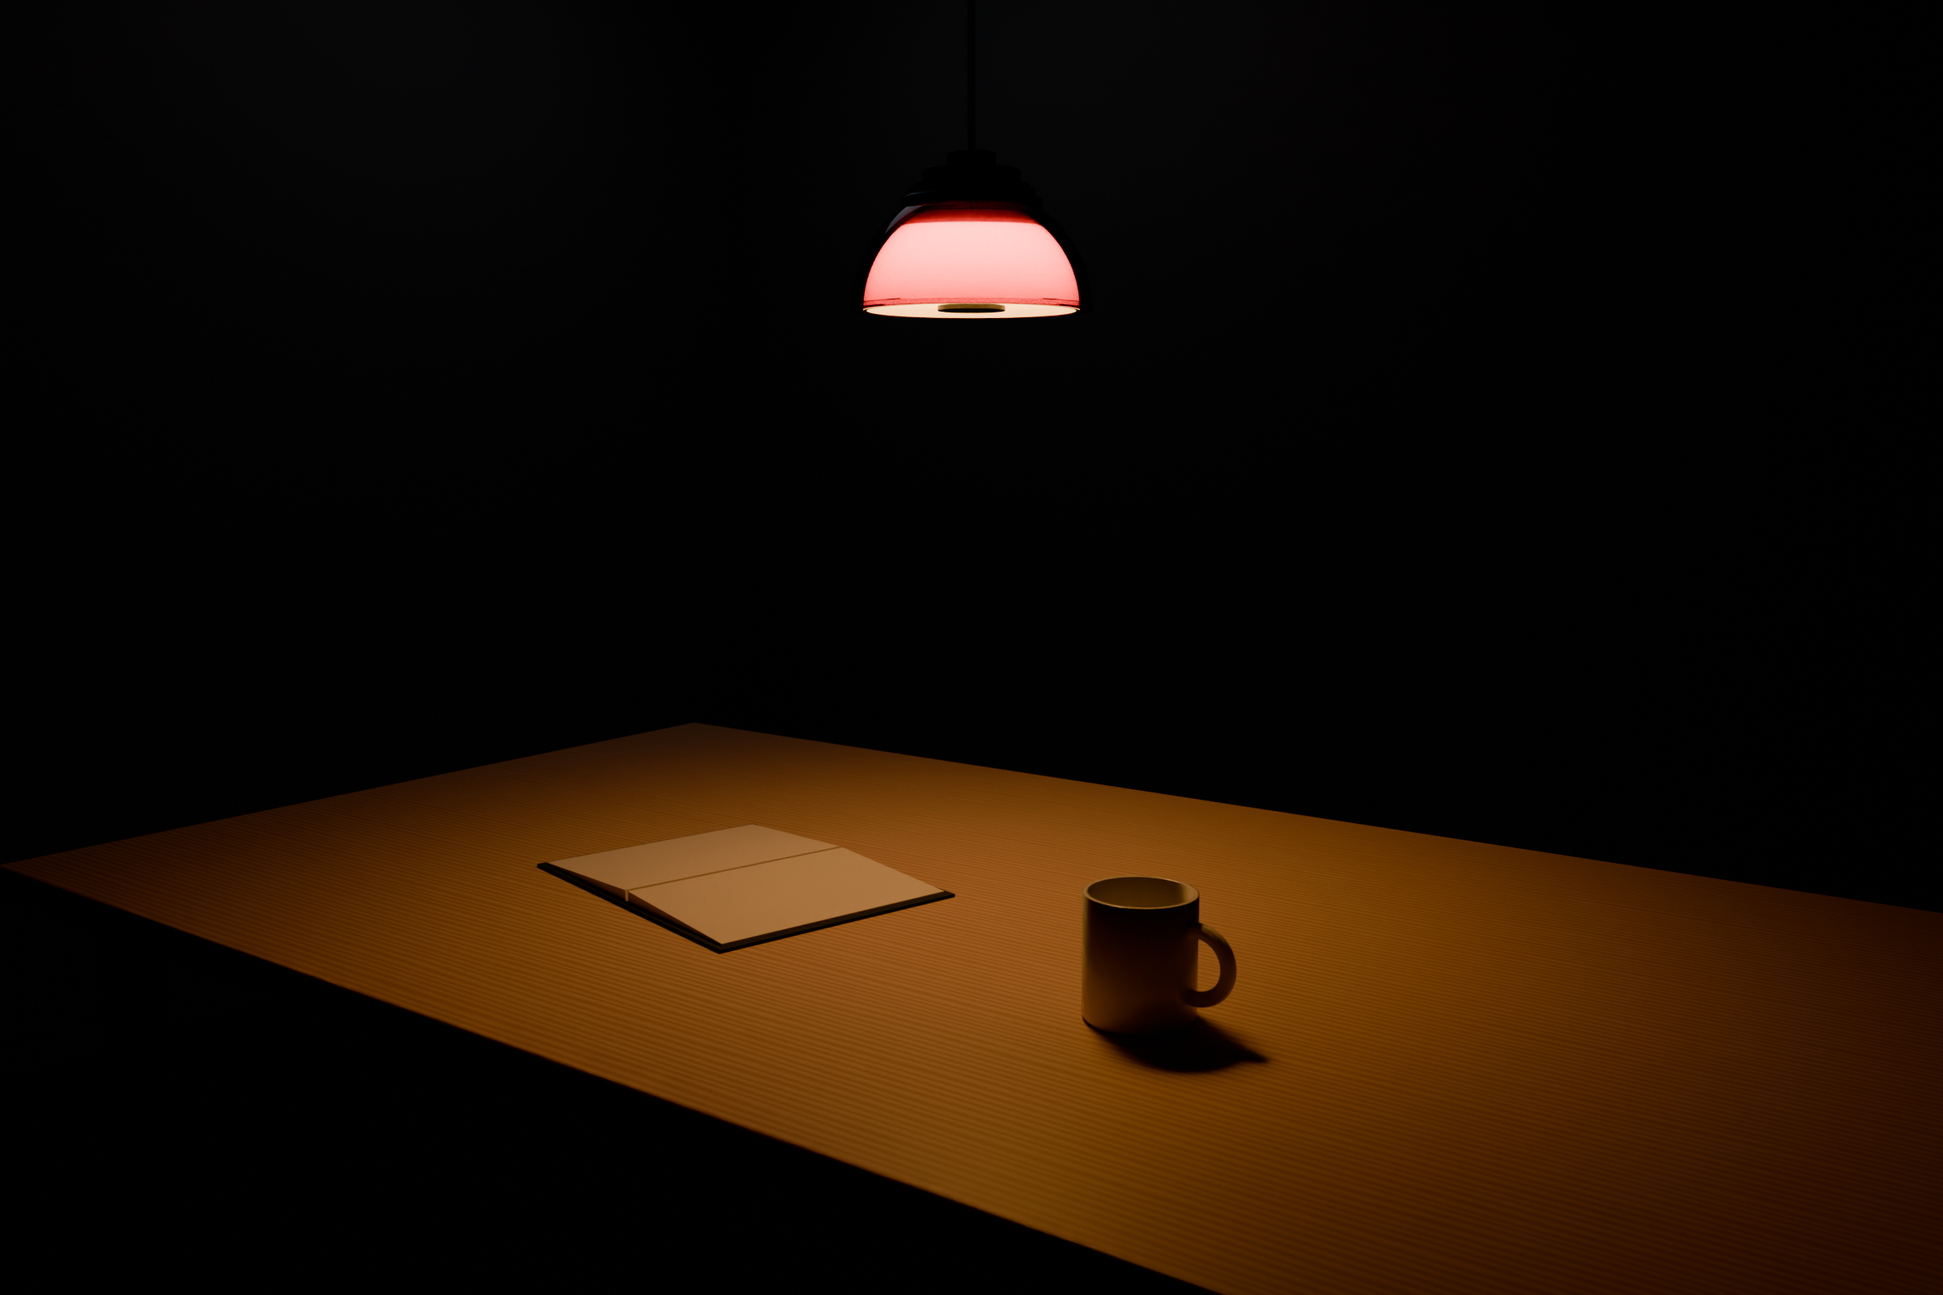
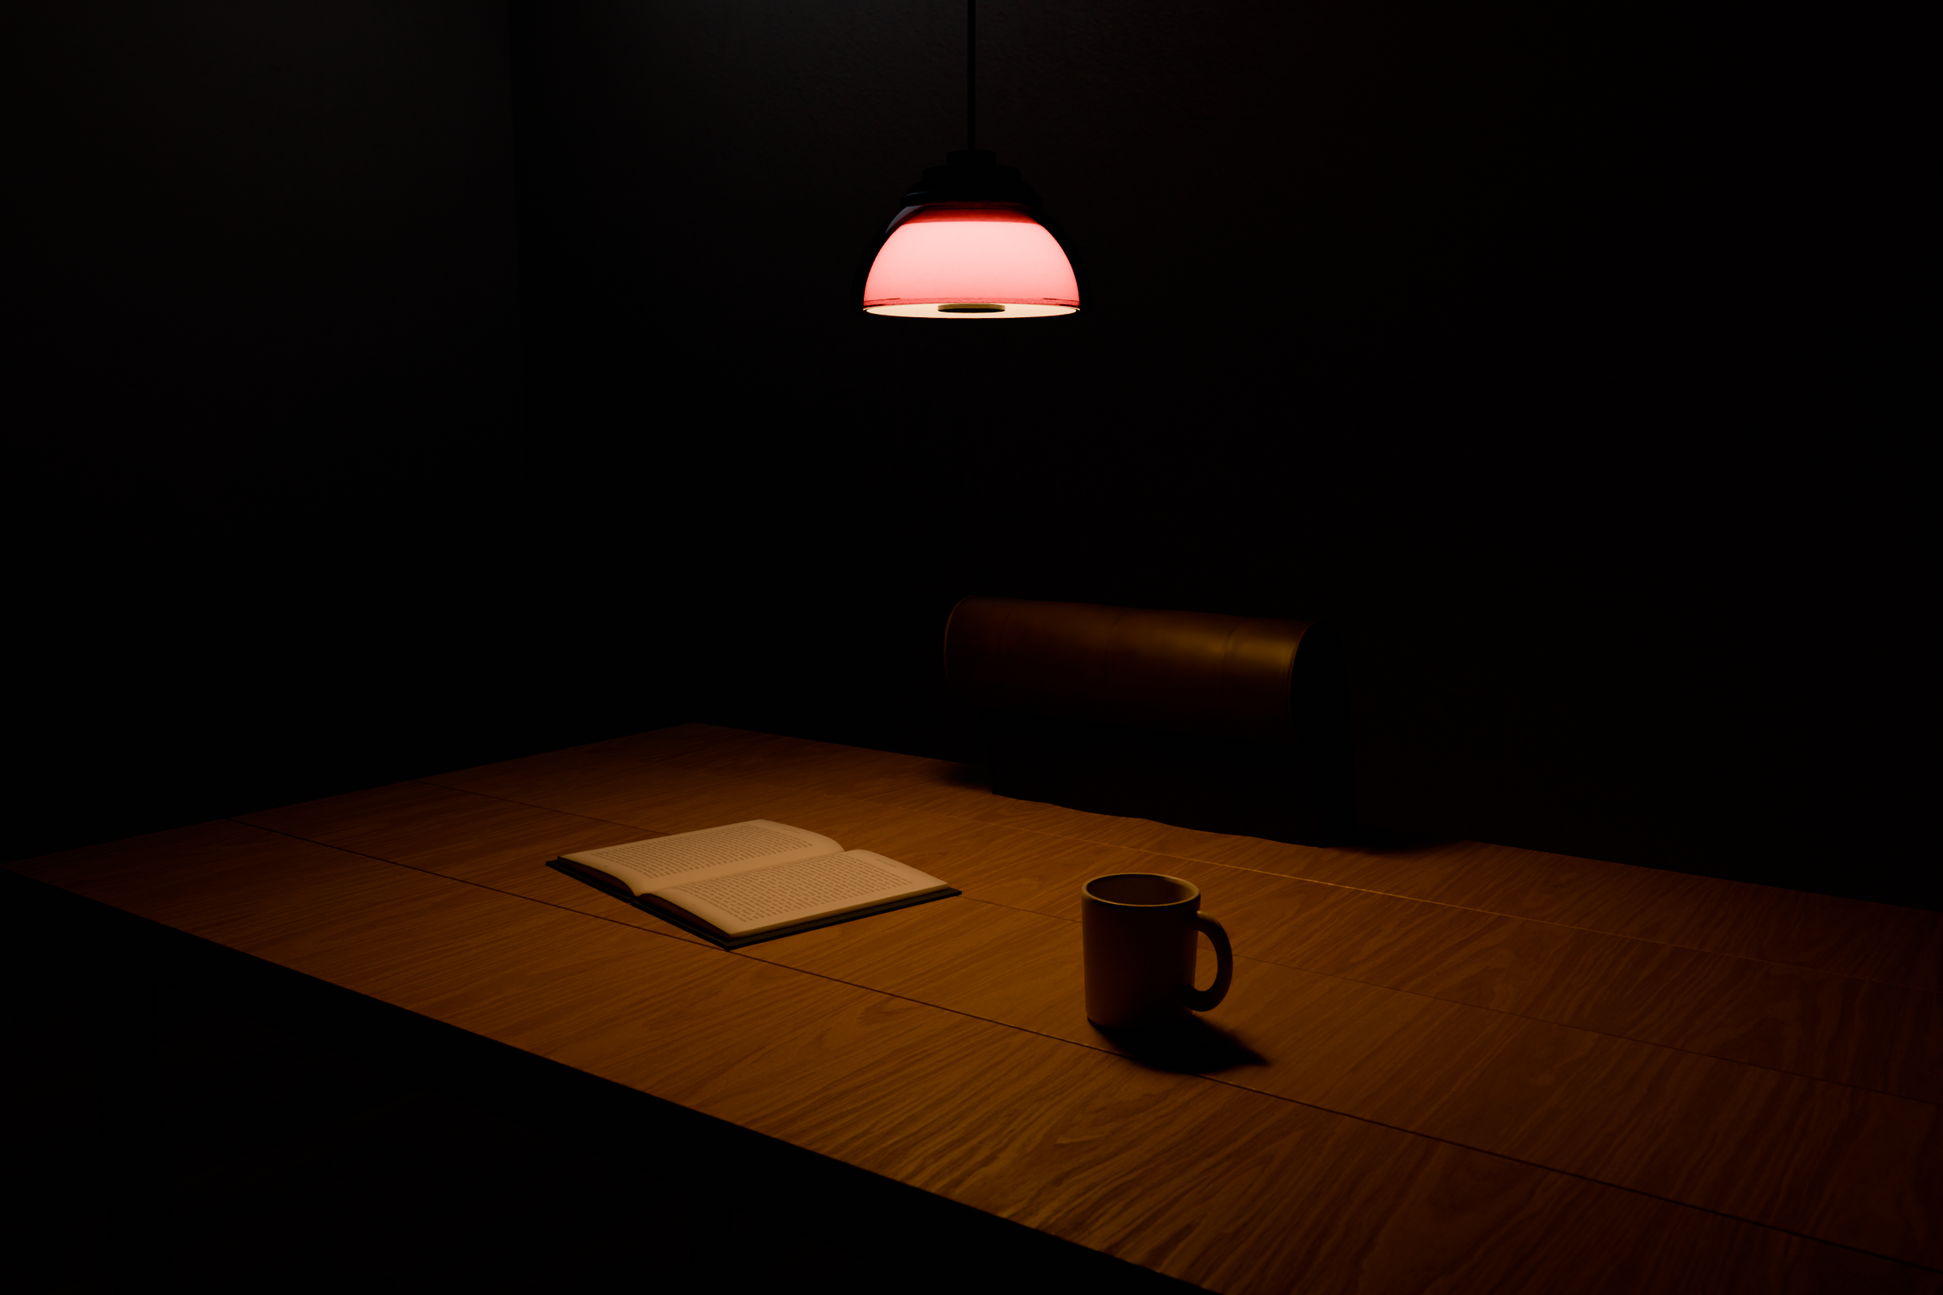
Hemisphere in use, pass 2: scanned oak boards, a printed book, a stoneware cup, a chair
The coordinator, 2026-11-13: the first in-use picture proved the point, but the table read as card,
the book was blank, the mug was plain and the room was a void. The lamp, its 0.5 m height, the
camera, the exposure and the declared 6 W fill are all unchanged; nothing is brightened.

- The table's top is four boards of a scanned oak (Poly Haven oak_veneer_01, CC0) at its real size,
  grain along the boards, each board its own cut of the scan, with 1.5 mm joints.
- The open book is modelled with pages rising from the gutter, printed from page-L/page-R.jpg. That
  text was written for this repo and typeset by lamp-site-meshes/book/pages.py.
- The cup is speckled oatmeal stoneware with coffee in it.
- A chair (Poly Haven dining_chair_02, CC0) is pushed in across the table, its back in the lamp's
  own spill.
- The walls are scanned plaster and the floor is scanned oak planks.
- The far wall stays black at this exposure. That is reported, and the fill was not raised.

The table re-read with a grey card gives 333 / 226 / 71 lux at 0, 0.3 and 0.6 m (pass 1: 343 / 231 /
71); numbers.txt has both. The audit reads 0.0 for hidden lamps in frame.

Claude-Session: https://claude.ai/code/session_01VCPNDaozJgar2mVTSvis3A

Changed region(s): [[0.0625, 0.5625, 1.0, 1.0], [0.5, 0.4375, 0.6875, 0.5312], [0.9375, 0.9688, 1.0, 1.0]]

diff --git a/spinoffs/barkhorn/companions/lamp_site.py b/spinoffs/barkhorn/companions/lamp_site.py
@@ -539,53 +539,113 @@ def build(frame, samples, scale):
             ob.location = (c[0], cy, c[2])
 
     def room(tz):
-        """A dim room for the in-use picture (2026-11-12): a 4.4 x 4.6 m box 2.4 m high (floor, ceiling, four walls, all
-        matte), a pale oak table (1.6 x 0.9, its top at tz), a white cup and an open book. Procedural materials only."""
-        wall = SC.principled('wall', '#8A867F', 0.9); floor_ = SC.principled('floor', '#4A3D33', 0.6)
+        """A dim room for the in-use picture (2026-11-12; pass 2 2026-11-13, the coordinator: real oak, a printed book, a
+        stoneware cup, the room placed). A 4.4 m wide room, 2.4 m high, its far wall 0.85 m behind the table; the table
+        (1.6 x 0.9, its top at tz) four boards of a scanned oak (Poly Haven oak_veneer_01, CC0, at its real size, the
+        grain along the boards) with 1.5 mm joints; a chair (Poly Haven dining_chair_02, CC0) across it; the walls a
+        scanned plaster (beige_wall_001) toned warm grey, the floor scanned oak planks. The book is modelled here, its pages
+        printed from lamp-site-meshes/book (text written for this repo); the cup a speckled stoneware, revolved."""
+        sys.path.insert(0, os.path.join(HERE, '..', '..', '..', 'studio', 'engine'))
+        import assets as AS
+        yw = 1.30
+        wallm = AS.pbr(bpy, 'beige_wall_001', '1k', tint='#D3CDC2', tint_mix=0.45, name='wall')
+        floorm = AS.pbr(bpy, 'oak_wood_planks', '1k', name='floor')
         ceil = SC.principled('ceiling', '#B9B6B0', 0.95)
-        SC.box_ob('floor', -2.2, -2.6, -0.02, 2.2, 2.0, 0.0, floor_)
-        SC.box_ob('ceiling', -2.2, -2.6, 2.4, 2.2, 2.0, 2.42, ceil)
-        SC.box_ob('wall-back', -2.2, 2.0, 0.0, 2.2, 2.02, 2.4, wall)
-        SC.box_ob('wall-front', -2.2, -2.62, 0.0, 2.2, -2.6, 2.4, wall)
-        SC.box_ob('wall-left', -2.22, -2.6, 0.0, -2.2, 2.0, 2.4, wall)
-        SC.box_ob('wall-right', 2.2, -2.6, 0.0, 2.22, 2.0, 2.4, wall)
-        # pale oak: a wave texture's grain along x, distorted, between two oak tones; oiled (roughness 0.45)
-        oak = bpy.data.materials.new('oak'); oak.use_nodes = True; nt = oak.node_tree
-        bs = nt.nodes['Principled BSDF']; bs.inputs['Roughness'].default_value = 0.45
-        tc = nt.nodes.new('ShaderNodeTexCoord'); mp = nt.nodes.new('ShaderNodeMapping'); mp.inputs['Scale'].default_value = (1.0, 14.0, 1.0)
-        wv = nt.nodes.new('ShaderNodeTexWave'); wv.wave_type = 'BANDS'; wv.bands_direction = 'Y'
-        wv.inputs['Scale'].default_value = 3.0; wv.inputs['Distortion'].default_value = 6.0; wv.inputs['Detail'].default_value = 4.0
-        cr = nt.nodes.new('ShaderNodeValToRGB'); cr.color_ramp.elements[0].color = (*SC.hex_lin('#C8A57A'), 1); cr.color_ramp.elements[1].color = (*SC.hex_lin('#DCC29C'), 1)
-        nt.links.new(tc.outputs['Object'], mp.inputs['Vector']); nt.links.new(mp.outputs['Vector'], wv.inputs['Vector'])
-        nt.links.new(wv.outputs['Fac'], cr.inputs['Fac']); nt.links.new(cr.outputs['Color'], bs.inputs['Base Color'])
-        SC.box_ob('table-top', -0.8, -0.45, tz - 0.03, 0.8, 0.45, tz, oak, bevel=0.003)
+        SC.box_ob('floor', -2.2, -2.6, -0.02, 2.2, yw, 0.0, floorm)
+        SC.box_ob('ceiling', -2.2, -2.6, 2.4, 2.2, yw, 2.42, ceil)
+        SC.box_ob('wall-back', -2.2, yw, 0.0, 2.2, yw + 0.02, 2.4, wallm)
+        SC.box_ob('wall-front', -2.2, -2.62, 0.0, 2.2, -2.6, 2.4, wallm)
+        SC.box_ob('wall-left', -2.22, -2.6, 0.0, -2.2, yw, 2.4, wallm)
+        SC.box_ob('wall-right', 2.2, -2.6, 0.0, 2.22, yw, 2.4, wallm)
+        # the top: four boards 223.9 wide with 1.5 joints, each its own cut of the scan (the grain turned along x, each
+        # board's mapping shifted so no two repeat), the long edges eased 1.5; oiled (the scan's own roughness)
+        oak0 = AS.pbr(bpy, 'oak_veneer_01', '2k', name='oak')
+        bw = (0.9 - 3 * 0.0015) / 4
+        for k in range(4):
+            m = oak0.copy(); m.name = f'oak-{k}'
+            mp = next(n for n in m.node_tree.nodes if n.type == 'MAPPING')
+            mp.inputs['Rotation'].default_value = (0.0, 0.0, math.pi / 2)
+            mp.inputs['Location'].default_value = (0.37 * k + 0.11, 0.53 * k, 0.0)
+            y0 = -0.45 + k * (bw + 0.0015)
+            SC.box_ob(f'table-top-{k}', -0.8, y0, tz - 0.03, 0.8, y0 + bw, tz, m, bevel=0.0015)
+        apron = oak0.copy(); apron.name = 'oak-apron'
+        SC.box_ob('table-apron', -0.72, -0.37, tz - 0.11, 0.72, 0.37, tz - 0.03, apron)
         for lx in (-0.74, 0.70):
-            for ly in (-0.39, 0.35):
-                SC.box_ob(f'table-leg', lx, ly, 0.0, lx + 0.04, ly + 0.04, tz - 0.03, oak)
-        # the cup: a white glazed mug, revolved, 80 across, 90 high, and a handle
-        glaze = SC.principled('glaze', '#F1EFEA', 0.12)
-        prof = [(0.0, 0.0), (0.038, 0.0), (0.040, 0.004), (0.040, 0.090), (0.0365, 0.090), (0.0365, 0.008), (0.0, 0.008)]
+            for ly in (-0.40, 0.36):
+                SC.box_ob('table-leg', lx, ly, 0.0, lx + 0.04, ly + 0.04, tz - 0.03, apron)
+        # the chair across the table, pushed in under it as a chair is left, its back in the lamp's own spill
+        try:
+            ch = AS.place(bpy, 'dining_chair_02', '1k', location=(-0.02, 0.58, 0.0), rotation_deg=(0, 0, 180), scale=1.0)
+            ch.name = 'chair'
+        except Exception as e:
+            print('CHAIR not placed:', e)
+        # the cup: stoneware, 82 across, 92 high, 4.5 walls, a foot; an oatmeal glaze speckled with iron; coffee in it
+        gl = bpy.data.materials.new('stoneware'); gl.use_nodes = True; nt = gl.node_tree; bs = nt.nodes['Principled BSDF']
+        bs.inputs['Roughness'].default_value = 0.32
+        tc = nt.nodes.new('ShaderNodeTexCoord'); nz = nt.nodes.new('ShaderNodeTexNoise'); nz.inputs['Scale'].default_value = 900.0
+        nz.inputs['Detail'].default_value = 2.0
+        cr = nt.nodes.new('ShaderNodeValToRGB'); cr.color_ramp.interpolation = 'CONSTANT'
+        cr.color_ramp.elements[0].color = (*SC.hex_lin('#5B4A3B'), 1); cr.color_ramp.elements[1].position = 0.30
+        cr.color_ramp.elements[1].color = (*SC.hex_lin('#D2C8B5'), 1)
+        n2 = nt.nodes.new('ShaderNodeTexNoise'); n2.inputs['Scale'].default_value = 40.0
+        mx = nt.nodes.new('ShaderNodeMix'); mx.data_type = 'RGBA'; mx.blend_type = 'MULTIPLY'; mx.inputs['Factor'].default_value = 0.12
+        nt.links.new(tc.outputs['Object'], nz.inputs['Vector']); nt.links.new(nz.outputs['Fac'], cr.inputs['Fac'])
+        nt.links.new(tc.outputs['Object'], n2.inputs['Vector']); nt.links.new(cr.outputs['Color'], mx.inputs['A'])
+        nt.links.new(n2.outputs['Color'], mx.inputs['B']); nt.links.new(mx.outputs['Result'], bs.inputs['Base Color'])
+        prof = [(0.0, 0.003), (0.030, 0.003), (0.032, 0.0), (0.035, 0.0), (0.037, 0.006), (0.041, 0.088), (0.0405, 0.092),
+                (0.0375, 0.092), (0.0365, 0.088), (0.0335, 0.012), (0.0, 0.010)]
         bm = bmesh.new(); vs = [bm.verts.new((r, 0.0, z)) for r, z in prof]
         for i in range(len(vs) - 1):
             bm.edges.new((vs[i], vs[i + 1]))
-        bmesh.ops.spin(bm, geom=bm.verts[:] + bm.edges[:], cent=(0, 0, 0), axis=(0, 0, 1), angle=2 * math.pi, steps=64, use_merge=True)
+        bmesh.ops.spin(bm, geom=bm.verts[:] + bm.edges[:], cent=(0, 0, 0), axis=(0, 0, 1), angle=2 * math.pi, steps=96, use_merge=True)
         bmesh.ops.remove_doubles(bm, verts=bm.verts, dist=1e-6); bmesh.ops.recalc_face_normals(bm, faces=bm.faces[:])
         for f in bm.faces:
             f.smooth = True
-        me = bpy.data.meshes.new('cup'); bm.to_mesh(me); bm.free(); me.materials.append(glaze)
-        cup = bpy.data.objects.new('cup', me); bpy.context.scene.collection.objects.link(cup); cup.location = (0.26, -0.16, tz)
-        bpy.ops.mesh.primitive_torus_add(major_radius=0.024, minor_radius=0.0055, location=(0.26 + 0.044, -0.16, tz + 0.047), rotation=(math.pi / 2, 0, 0))
-        hd = bpy.context.object; hd.name = 'cup-handle'; hd.data.materials.append(glaze); hd.select_set(False)
-        # the book: open, a 230 x 155 page spread on its cloth cover, the two blocks of pages rising slightly from the spine
-        cloth = SC.principled('cloth', '#2F3B4A', 0.85); pages = SC.principled('pages', '#EEE9DE', 0.8)
-        bk = (-0.20, -0.08); rot = math.radians(-14)
-        objs = [SC.box_ob('book-cover', -0.162, -0.118, 0.0, 0.162, 0.118, 0.003, cloth)]
-        for sgn in (-1, 1):   # each block's centre 78 out from the spine, tipped 3 deg so it rises toward the spine
-            ob = SC.box_ob('book-pages', 0.002 * sgn if sgn > 0 else -0.154, -0.112, 0.003, 0.154 if sgn > 0 else -0.002, 0.112, 0.013, pages)
-            ob.rotation_euler = (0.0, math.radians(3.0) * sgn, 0.0); objs.append(ob)
+        me = bpy.data.meshes.new('cup'); bm.to_mesh(me); bm.free(); me.materials.append(gl)
+        cx, cy_ = 0.26, -0.16
+        cup = bpy.data.objects.new('cup', me); bpy.context.scene.collection.objects.link(cup); cup.location = (cx, cy_, tz)
+        bpy.ops.mesh.primitive_torus_add(major_radius=0.023, minor_radius=0.0058, major_segments=64, minor_segments=24,
+                                         location=(cx + 0.046, cy_, tz + 0.050), rotation=(math.pi / 2, 0, 0))
+        hd = bpy.context.object; hd.name = 'cup-handle'; hd.scale = (0.85, 1.22, 1.0); hd.data.materials.append(gl)
+        for f in hd.data.polygons:
+            f.use_smooth = True
+        hd.select_set(False)
+        cof = SC.principled('coffee', '#22150D', 0.04)
+        bpy.ops.mesh.primitive_circle_add(vertices=96, radius=0.0362, fill_type='NGON', location=(cx, cy_, tz + 0.068))
+        co_ = bpy.context.object; co_.name = 'cup-coffee'; co_.data.materials.append(cof); co_.select_set(False)
+        # the book: hardcover, open; cloth boards, a page block each side, the top pages rising from the gutter
+        cloth = SC.principled('cloth', '#2E3A48', 0.85, bump=(3000.0, 0.15))
+        edge = SC.principled('page-edge', '#E8E2D4', 0.8)
+        bk = (-0.20, -0.07); rot = math.radians(-14); objs = []
+        Wp, Hp = 0.150, 0.222
+        for sgn in (-1, 1):
+            objs.append(SC.box_ob('book-board', 0.0015 * sgn if sgn > 0 else -0.162, -0.118, 0.0, 0.162 if sgn > 0 else -0.0015, 0.118, 0.003, cloth))
+            img = bpy.data.images.load(os.path.join(HERE, 'lamp-site-meshes', 'book', 'page-%s.jpg' % ('R' if sgn > 0 else 'L')))
+            pm = bpy.data.materials.new('page-%d' % sgn); pm.use_nodes = True; nt = pm.node_tree; bs = nt.nodes['Principled BSDF']
+            bs.inputs['Roughness'].default_value = 0.75
+            it = nt.nodes.new('ShaderNodeTexImage'); it.image = img; nt.links.new(it.outputs['Color'], bs.inputs['Base Color'])
+            bm = bmesh.new(); uvl = bm.loops.layers.uv.new(); nu, nv = 40, 12
+            grid = []
+            for i in range(nu + 1):
+                d_ = Wp * i / nu
+                z_ = 0.0045 + 0.0105 * (1 - math.exp(-d_ / 0.012)) - 0.006 * (d_ / Wp) ** 2
+                grid.append([bm.verts.new((sgn * (0.002 + d_), -Hp / 2 + Hp * j / nv, z_)) for j in range(nv + 1)])
+            for i in range(nu):
+                for j in range(nv):
+                    q = (grid[i][j], grid[i + 1][j], grid[i + 1][j + 1], grid[i][j + 1])
+                    f = bm.faces.new(q if sgn > 0 else q[::-1]); f.smooth = True
+                    for lp in f.loops:
+                        ii = next(a for a in range(nu + 1) if lp.vert in grid[a]); jj = grid[ii].index(lp.vert)
+                        u_ = ii / nu if sgn > 0 else 1 - ii / nu
+                        lp[uvl].uv = (u_, jj / nv)
+            me = bpy.data.meshes.new('book-pages'); bm.to_mesh(me); bm.free(); me.materials.append(pm); me.materials.append(edge)
+            ob = bpy.data.objects.new('book-pages', me); bpy.context.scene.collection.objects.link(ob)
+            sm = ob.modifiers.new('block', 'SOLIDIFY'); sm.thickness = 0.0095; sm.offset = -1.0; sm.material_offset_rim = 1
+            sm.material_offset = 1
+            objs.append(ob)
         for ob in objs:
-            ob.location = (ob.location.x * math.cos(rot) - ob.location.y * math.sin(rot) + bk[0],
-                           ob.location.x * math.sin(rot) + ob.location.y * math.cos(rot) + bk[1], ob.location.z + tz)
+            lx, ly = ob.location.x, ob.location.y
+            ob.location = (lx * math.cos(rot) - ly * math.sin(rot) + bk[0], lx * math.sin(rot) + ly * math.cos(rot) + bk[1], ob.location.z + tz)
             ob.rotation_euler[2] += rot
         fw = float(os.environ.get('ROOM_FILL', '0'))
         if fw > 0:   # declared: a faint warm ceiling panel, as a room's own spill
@@ -797,11 +857,13 @@ def build(frame, samples, scale):
         # in-use frame is probed on its own table: the room fill, the cup and the book removed, the table's top a grey
         # card (the paper's #9A9A9A, so its albedo is known); the walls, floor and ceiling stay (their bounce is real)
         for o in list(sc.objects):
-            if o.name in ('key', 'fill', 'kicker', 'room-fill', 'cup', 'cup-handle') or o.name.startswith('book-'):
+            if o.name in ('key', 'fill', 'kicker', 'room-fill') or o.name.startswith(('book-', 'cup')):
                 bpy.data.objects.remove(o, do_unlink=True)
         z0_ = 0.0
         if frame == 'inuse':
-            z0_ = 0.75; tt_ = bpy.data.objects['table-top']; tt_.data.materials.clear(); tt_.data.materials.append(paper)
+            z0_ = 0.75
+            for tt_ in [o for o in sc.objects if o.name.startswith('table-top')]:
+                tt_.data.materials.clear(); tt_.data.materials.append(paper)
         if sc.world:
             for n_ in sc.world.node_tree.nodes:
                 if n_.type == 'BACKGROUND':

diff --git a/spinoffs/barkhorn/companions/lamp-site-meshes/book/pages.py b/spinoffs/barkhorn/companions/lamp-site-meshes/book/pages.py
@@ -1,0 +1,55 @@
+"""The open book's two pages for the in-use picture (2026-11-13): text written for this repo (no third-party text),
+typeset in DejaVu Serif on cream stock, a running head and a folio. Writes page-L.jpg and page-R.jpg beside this file."""
+import os, random
+from PIL import Image, ImageDraw, ImageFont
+HERE = os.path.dirname(os.path.abspath(__file__))
+FONT = '/usr/share/fonts/truetype/dejavu/DejaVuSerif.ttf'
+TEXT = {
+ 'L': ("The evening came on slowly over the water, and the lamps along the quay were lit one by one, each throwing a "
+       "small round of yellow onto the stones. Nobody hurried. The boats knocked gently against the pilings, and somewhere "
+       "above the harbor a window opened and a voice called a name that nobody answered. She sat at the long table with "
+       "the book open in front of her and did not read it. The light from the lamp fell on the page and on her hands and "
+       "on the rim of the cup, and beyond it the room went soft and gray, the chairs and the shelves and the far wall only "
+       "shapes now, kept at a distance. It was the hour she liked best, when the day had stopped asking for anything and "
+       "the night had not yet begun. She turned the page without looking down. Outside, the tide was turning too, the "
+       "water drawing back from the steps a little at a time, leaving them dark and shining.", 112),
+ 'R': ("In the morning there would be letters to answer and the long road into town, the bakery and the post office and "
+       "the slow conversation at the counter about the weather, which was always about to change. But that was the "
+       "morning. Now there was only this: the warm circle on the table, the grain of the old wood running out of the light "
+       "and into the dark, the cup gone cool beside the book. She had bought the table from a farmhouse up the valley, "
+       "years ago, and it still carried the marks of every meal eaten at it, every knife and every elbow. She liked to "
+       "think of the people who had sat where she was sitting, in the same light at the same hour, talking or not "
+       "talking. The lamp hummed very faintly, or perhaps that was the house settling. She reached for the cup, found it "
+       "empty, and left it where it was.", 113)}
+W, H, M = 1500, 2200, 170
+f = ImageFont.truetype(FONT, 40); fs = ImageFont.truetype(FONT, 32)
+random.seed(3)
+for side, (text, folio) in TEXT.items():
+    im = Image.new('RGB', (W, H), (243, 238, 227)); d = ImageDraw.Draw(im)
+    for _ in range(40000):   # the stock's faint tooth
+        x, y = random.randrange(W), random.randrange(H); v = random.randint(-6, 4)
+        r, g, b = im.getpixel((x, y)); im.putpixel((x, y), (r + v, g + v, b + v))
+    d.text((W / 2, 120), 'THE QUIET HOUR', font=fs, fill=(80, 74, 66), anchor='mm')
+    other = TEXT['R' if side == 'L' else 'L'][0]
+    words, lines, cur = (text + ' ' + other + ' ' + text).split(), [], ''   # run on until the page is full
+    for w in words:
+        t = (cur + ' ' + w).strip()
+        if d.textlength(t, font=f) > W - 2 * M:
+            lines.append(cur); cur = w
+        else:
+            cur = t
+    lines.append(cur)
+    lines = lines[:int((H - 420) / 58)]
+    y = 240
+    for i, ln in enumerate(lines):
+        ws = ln.split()
+        if len(ws) > 1:   # justified
+            gap = (W - 2 * M - sum(d.textlength(w, font=f) for w in ws)) / (len(ws) - 1); x = M
+            for w in ws:
+                d.text((x, y), w, font=f, fill=(38, 35, 31)); x += d.textlength(w, font=f) + gap
+        else:
+            d.text((M, y), ln, font=f, fill=(38, 35, 31))
+        y += 58
+    d.text((W / 2, H - 110), str(folio), font=fs, fill=(80, 74, 66), anchor='mm')
+    im.save(os.path.join(HERE, f'page-{side}.jpg'), quality=88)
+print('pages written')
